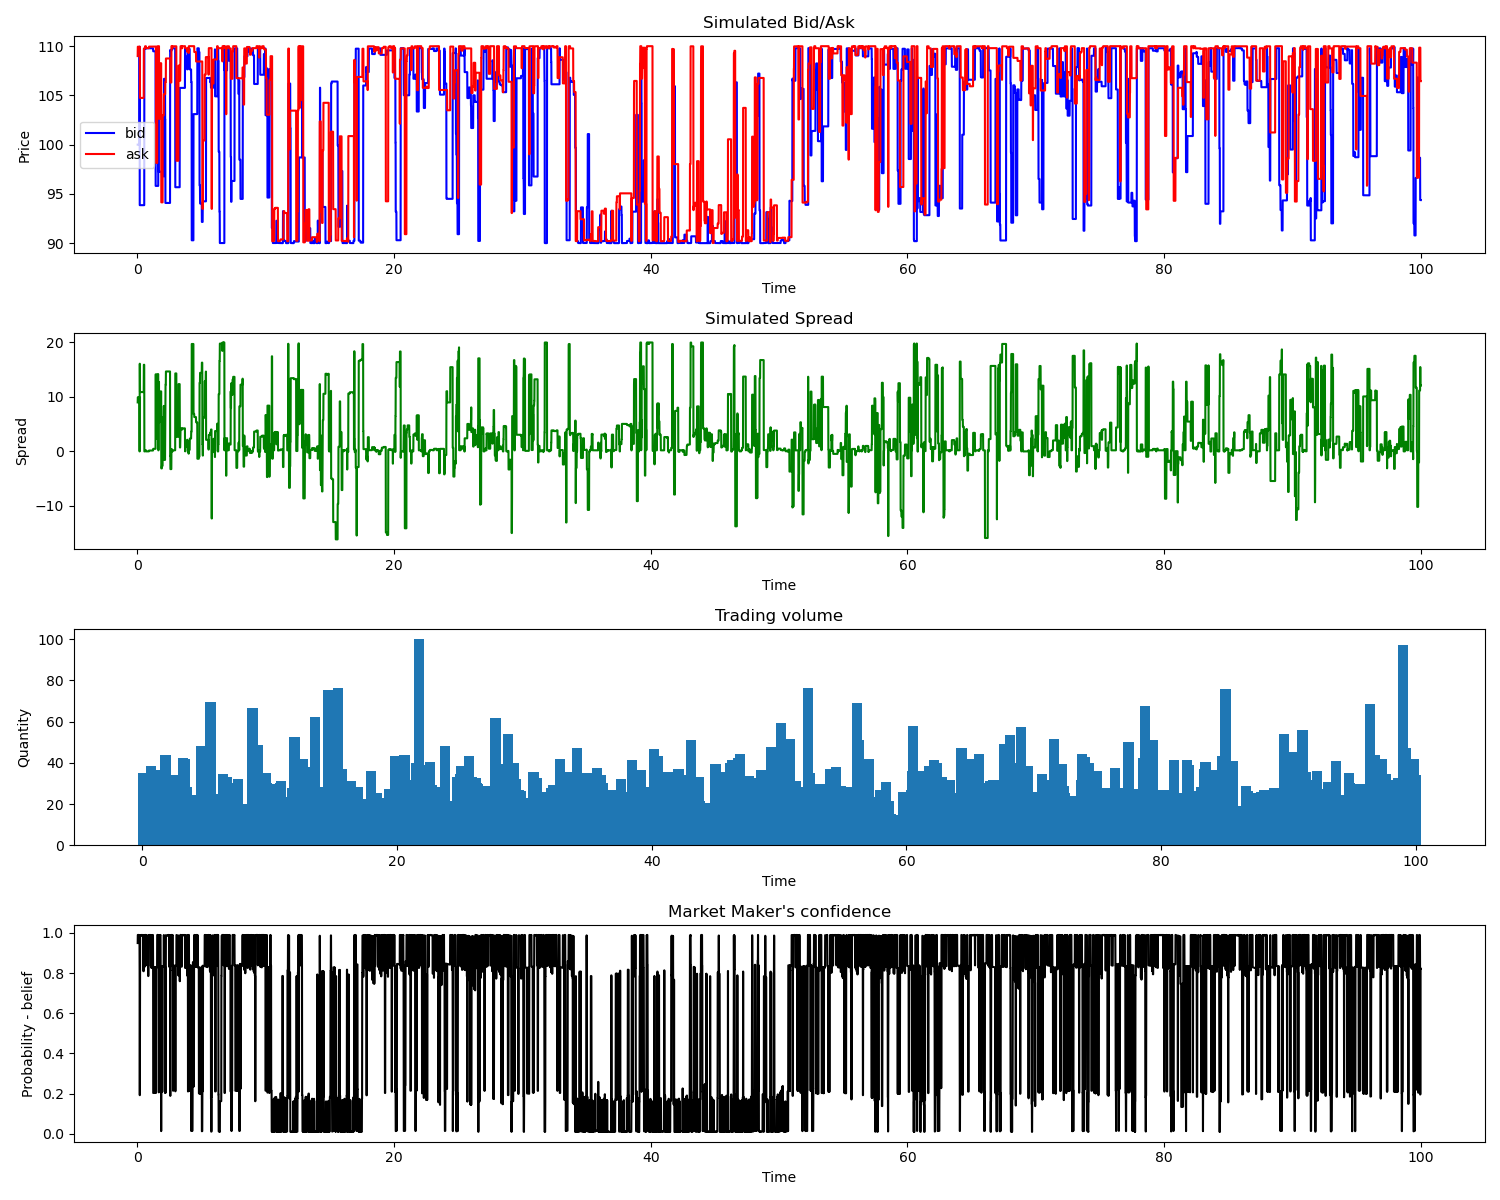
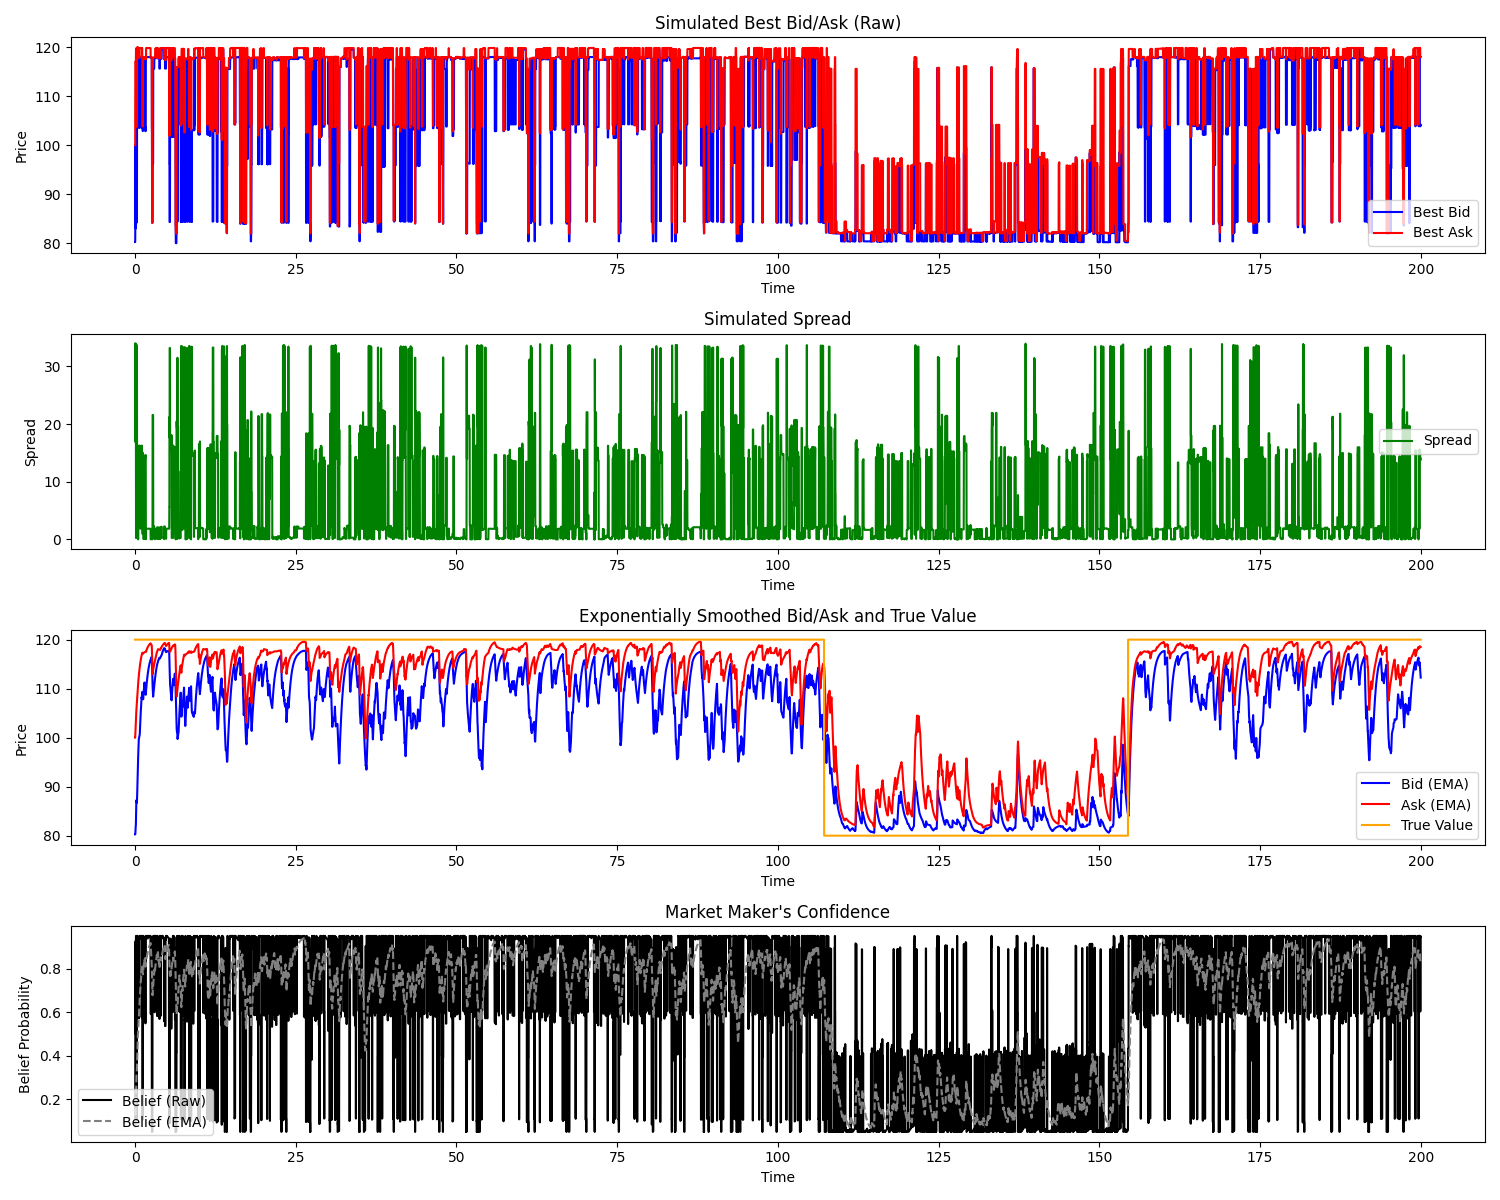
updated py and main simulation

diff --git a/src/main.cpp b/src/main.cpp
@@ -58,27 +58,27 @@ double updateBeliefAfterTrade(bool wasBuy, double p, double alpha) {
 int main() {
     try {
         // Simulation parameters and rates.
-        const double T = 100.0;
+        const double T = 200.0;
         const double dt = 0.01;
         const int numSteps = static_cast<int>(T / dt);
-        const double lambda = 100.0;
-        const double pInformed = 0.3;
+        const double lambda = 80.0;
+        const double pInformed = 0.25;
         const double pBuyNoise = 0.5;
-        const double vHigh = 110.0;
-        const double vLow  = 90.0;
+        const double vHigh = 120.0;
+        const double vLow  = 80.0;
         const double transitionHighToLow = 0.02;
         const double transitionLowToHigh = 0.02;
-        const double alpha = 0.9;
-        const double meanQuantity = 10.0;
-        const double maxQuantity = 100.0;
-        const double probLimitOrder = 0.6;
-        const double transactionFeeRate = 0.002;
+        const double alpha = 0.85;
+        const double meanQuantity = 5.0;
+        const double maxQuantity = 50.0;
+        const double probLimitOrder = 0.7;
+        const double transactionFeeRate = 0.001;
         const bool allowInformedLimitOrders = true;
-        const double informedOrderAggression = 0.2;
+        const double informedOrderAggression = 0.5;
         const double longRunMean = 0.5;
-        const double meanReversionRate = 0.05;
-        const double beliefLowerBound = 0.01;
-        const double beliefUpperBound = 0.99;
+        const double meanReversionRate = 0.1;
+        const double beliefLowerBound = 0.05;
+        const double beliefUpperBound = 0.95;
 
         // Random number generators.
         std::random_device rd;
@@ -101,8 +101,8 @@ int main() {
         double beliefP = 0.5;
         double currentAsk = computeAsk(beliefP, alpha, vHigh, vLow);
         double currentBid = computeBid(beliefP, alpha, vHigh, vLow);
-        auto mmBidOrder = marketMaker -> createLimitOrder(currentBid, 1e6, true);
-        auto mmAskOrder = marketMaker -> createLimitOrder(currentAsk, 1e6, false);
+        auto mmBidOrder = marketMaker->createLimitOrder(currentBid, 1e6, true);
+        auto mmAskOrder = marketMaker->createLimitOrder(currentAsk, 1e6, false);
         exchange.submitOrder(mmBidOrder);
         exchange.submitOrder(mmAskOrder);
         std::string mmBidId = mmBidOrder->getId();
@@ -114,15 +114,16 @@ int main() {
             std::cerr << "Error: unable to open output file." << std::endl;
             return 1;
         }
-        outFile << "time,arrival,trader_type,order_type,is_buy,quantity,"
-                << "exec_price_avg,num_trades,best_bid,best_ask,spread,"
-                << "belief_p,true_value,fees\n";
+        // CSV Header: note we now log best_bid, best_ask and spread from the order book
+        outFile << "time,arrival,trader_type,order_type,is_buy,quantity,exec_price_avg,num_trades,"
+                << "best_bid,best_ask,spread,belief_p,true_value,fees\n";
 
         // Main time-stepping loop.
         for (int step = 0; step < numSteps; ++step) {
             double currentTime = step * dt;
 
             // Randomly evolve the fundamental value using a simple Markov process.
+            bool oldIsHighValue = isHighValue; // Track pre-flip state
             if (isHighValue) {
                 if (uniDist(rng) < transitionHighToLow * dt) {
                     isHighValue = false;
@@ -133,6 +134,22 @@ int main() {
                     isHighValue = true;
                     trueValue = vHigh;
                 }
+            }
+
+            // If the fundamental value has flipped, reset the market-maker's quotes.
+            if (oldIsHighValue != isHighValue) {
+                exchange.cancelOrder(mmBidId);
+                exchange.cancelOrder(mmAskId);
+                double newAsk = computeAsk(beliefP, alpha, vHigh, vLow);
+                double newBid = computeBid(beliefP, alpha, vHigh, vLow);
+                auto newBidOrder = marketMaker->createLimitOrder(newBid, 1e6, true);
+                auto newAskOrder = marketMaker->createLimitOrder(newAsk, 1e6, false);
+                exchange.submitOrder(newBidOrder);
+                exchange.submitOrder(newAskOrder);
+                mmBidId = newBidOrder->getId();
+                mmAskId = newAskOrder->getId();
+                currentAsk = newAsk;
+                currentBid = newBid;
             }
 
             // Determine if an order arrives based on a Poisson process approximation.
@@ -156,15 +173,14 @@ int main() {
                 if (isInformed) {
                     // Informed trader decides direction based on the true fundamental.
                     isBuy = (trueValue == vHigh);
-                    quantity = 1.0;
+                    double q = expQty(rng);
+                    quantity = std::min(std::max(q, 1.0), maxQuantity);
                     double marketPrice = isBuy ? currentAsk : currentBid;
                     double notional = marketPrice * quantity;
                     double feeEstimate = notional * transactionFeeRate;
                     double netBenefit = isBuy
                             ? (trueValue - (marketPrice + feeEstimate))
                             : ((marketPrice - feeEstimate) - trueValue);
-
-                    // The informed trader only submits if the trade seems profitable.
                     if (netBenefit <= 0) {
                         orderTypeStr = "SKIPPED";
                     } else {
@@ -173,11 +189,11 @@ int main() {
                             double limitPrice = isBuy
                                 ? (trueValue - informedOrderAggression)
                                 : (trueValue + informedOrderAggression);
-                            auto lo = informedTrader -> createLimitOrder(limitPrice, quantity, isBuy);
+                            auto lo = informedTrader->createLimitOrder(limitPrice, quantity, isBuy);
                             tradesExecuted = exchange.submitOrder(lo);
                         } else {
                             orderTypeStr = "MARKET";
-                            auto mo = informedTrader -> createMarketOrder(quantity, isBuy);
+                            auto mo = informedTrader->createMarketOrder(quantity, isBuy);
                             tradesExecuted = exchange.submitOrder(mo);
                         }
                     }
@@ -187,24 +203,13 @@ int main() {
                     bool placeLimit = (uniDist(rng) < probLimitOrder);
                     double q = expQty(rng);
                     quantity = std::min(std::max(q, 1.0), maxQuantity);
-
                     if (placeLimit) {
                         orderTypeStr = "LIMIT";
-                        auto bestBidOrder = exchange.getOrderBook().getHighestBid();
-                        auto bestAskOrder = exchange.getOrderBook().getLowestAsk();
-                        double bestBidPx = bestBidOrder ? bestBidOrder->getPrice() : currentBid;
-                        double bestAskPx = bestAskOrder ? bestAskOrder->getPrice() : currentAsk;
-                        double mid = 0.5 * (bestBidPx + bestAskPx);
-                        double randomOffset = noisePriceDist(rng);
-                        double limitPrice = mid + randomOffset;
-                        if (limitPrice < 0.01) {
-                            limitPrice = 0.01;
-                        }
-                        auto lo = noiseTrader -> createLimitOrder(limitPrice, quantity, isBuy);
+                        auto lo = noiseTrader->createLimitOrder(isBuy ? currentBid : currentAsk, quantity, isBuy);
                         tradesExecuted = exchange.submitOrder(lo);
                     } else {
                         orderTypeStr = "MARKET";
-                        auto mo = noiseTrader -> createMarketOrder(quantity, isBuy);
+                        auto mo = noiseTrader->createMarketOrder(quantity, isBuy);
                         tradesExecuted = exchange.submitOrder(mo);
                     }
                 }
@@ -222,17 +227,13 @@ int main() {
                     if (totalQty > 0.0) {
                         execPriceAvg = sumPrices / totalQty;
                     }
-
-                    // Belief update depends on the aggregate direction of the incoming trade.
                     beliefP = updateBeliefAfterTrade(isBuy, beliefP, alpha);
-
-                    // Recalculate the market maker's quotes and replace old orders.
                     double newAsk = computeAsk(beliefP, alpha, vHigh, vLow);
                     double newBid = computeBid(beliefP, alpha, vHigh, vLow);
                     exchange.cancelOrder(mmBidId);
                     exchange.cancelOrder(mmAskId);
-                    auto newBidOrder = marketMaker -> createLimitOrder(newBid, 1e6, true);
-                    auto newAskOrder = marketMaker -> createLimitOrder(newAsk, 1e6, false);
+                    auto newBidOrder = marketMaker->createLimitOrder(newBid, 1e6, true);
+                    auto newAskOrder = marketMaker->createLimitOrder(newAsk, 1e6, false);
                     exchange.submitOrder(newBidOrder);
                     exchange.submitOrder(newAskOrder);
                     mmBidId = newBidOrder->getId();
@@ -250,7 +251,7 @@ int main() {
                 beliefP = beliefUpperBound;
             }
 
-            // Retrieve current best quotes for logging.
+            // Query the actual best quotes from the order book.
             double bestBid = 0.0;
             double bestAsk = 0.0;
             auto bestBidOrder = exchange.getOrderBook().getHighestBid();
@@ -295,7 +296,6 @@ int main() {
             std::cerr << "Python execution failed\n";
             return 1;
         }
-        
     } catch (const std::exception &e) {
         std::cerr << "Simulation error: " << e.what() << "\n";
         return 1;

diff --git a/src/simulation_analysis.py b/src/simulation_analysis.py
@@ -2,61 +2,55 @@ import pandas as pd
 import matplotlib.pyplot as plt
 import numpy as np
 
+# Read the CSV file including actual best quotes and true value.
 data = pd.read_csv('../build/masterpiece_simulation.csv')
-cols = ['time', 'trader_type', 'order_type', 'is_buy', 'quantity', 'exec_price_avg', 'belief_p']
-df_collapsed = data[cols]
 
-df = pd.DataFrame(np.zeros(shape=(len(df_collapsed), 6)), columns=['time', 'bid', 'ask', 'spread', 'volume', 'belief_p'])
-df['time'] = df_collapsed['time']
-df['volume'] = df_collapsed['quantity']
-df['belief_p'] = df_collapsed['belief_p']
+# Select the relevant columns.
+df = data[['time', 'best_bid', 'best_ask', 'spread', 'quantity', 'belief_p', 'true_value']]
+df = df.rename(columns={'quantity': 'volume'})
 
-for i in df_collapsed.index:
-    if df_collapsed.loc[i, 'order_type'] == 'MARKET':
-        if df_collapsed.loc[i, 'is_buy'] == 'buy':
-            # the trader must have bought an ask from a market maker
-            df.loc[i, 'ask'] = df_collapsed.loc[i, 'exec_price_avg']
-        else:
-            # the trader must have sold to a bid from a market maker 
-            df.loc[i, 'bid'] = df_collapsed.loc[i, 'exec_price_avg']
+# Compute exponential moving averages (EMA) for best_bid, best_ask and belief.
+# Adjust 'span' as necessary for the desired smoothness.
+df['best_bid_ema'] = df['best_bid'].ewm(span=100, adjust=False).mean()
+df['best_ask_ema'] = df['best_ask'].ewm(span=100, adjust=False).mean()
+df['belief_ema']   = df['belief_p'].ewm(span=100, adjust=False).mean()
 
-# Forward fill the bid and ask columns
-df['bid'] = df['bid'].replace(0, np.nan).ffill()
-df['ask'] = df['ask'].replace(0, np.nan).ffill()
-
-# If you want to fill NaN values with a specific value (e.g., 0), you can use fillna
-df['bid'] = df['bid'].fillna(0)
-df['ask'] = df['ask'].fillna(0)
-
-df['spread'] = df['ask'] - df['bid']
-
-i = 0
-while df.loc[i, 'bid'] == 0 or df.loc[i, 'ask'] == 0:
-    df = df.drop(i)
-    i += 1
-
+# Plotting
 fig, axs = plt.subplots(4, 1, figsize=(15, 12))
 
-axs[0].plot(df['time'], df['bid'], label='bid', color='blue')
-axs[0].plot(df['time'], df['ask'], label='ask', color='red')
-axs[1].plot(df['time'], df['spread'], label='spread', color='green')
-axs[2].bar(df['time'], df['volume'], label='volume')
-axs[3].plot(df['time'], df['belief_p'], label='belief', color='black')
-
-
-axs[0].set_title('Simulated Bid/Ask')
-axs[1].set_title('Simulated Spread')
-axs[2].set_title('Trading volume')
-axs[3].set_title("Market Maker's confidence") #### NEED TO CHANGE THIS NOT SURE
+# Subplot 0: Raw Best Bid/Ask
+axs[0].plot(df['time'], df['best_bid'], label='Best Bid', color='blue')
+axs[0].plot(df['time'], df['best_ask'], label='Best Ask', color='red')
+axs[0].set_title('Simulated Best Bid/Ask (Raw)')
 axs[0].set_xlabel('Time')
-axs[1].set_xlabel('Time')
-axs[2].set_xlabel('Time')
-axs[3].set_xlabel('Time')
 axs[0].set_ylabel('Price')
-axs[1].set_ylabel('Spread')
-axs[2].set_ylabel('Quantity')
-axs[3].set_ylabel('Probability - belief')
 axs[0].legend()
+
+# Subplot 1: Simulated Spread.
+axs[1].plot(df['time'], df['spread'], label='Spread', color='green')
+axs[1].set_title('Simulated Spread')
+axs[1].set_xlabel('Time')
+axs[1].set_ylabel('Spread')
+axs[1].legend()
+
+# Subplot 2: EMA of Best Bid/Ask and True Value.
+axs[2].plot(df['time'], df['best_bid_ema'], label='Bid (EMA)', color='blue')
+axs[2].plot(df['time'], df['best_ask_ema'], label='Ask (EMA)', color='red')
+axs[2].plot(df['time'], df['true_value'], label='True Value', color='orange')
+axs[2].set_title('Exponentially Smoothed Bid/Ask and True Value')
+axs[2].set_xlabel('Time')
+axs[2].set_ylabel('Price')
+axs[2].legend()
+
+# Subplot 3: Market Maker's Confidence (Belief) with EMA.
+axs[3].plot(df['time'], df['belief_p'], label='Belief (Raw)', color='black')
+axs[3].plot(df['time'], df['belief_ema'], '--', label='Belief (EMA)', color='gray')
+axs[3].set_title("Market Maker's Confidence")
+axs[3].set_xlabel('Time')
+axs[3].set_ylabel('Belief Probability')
+axs[3].legend()
 
 plt.tight_layout()
 plt.savefig('../figure.png')
+plt.show()
+
